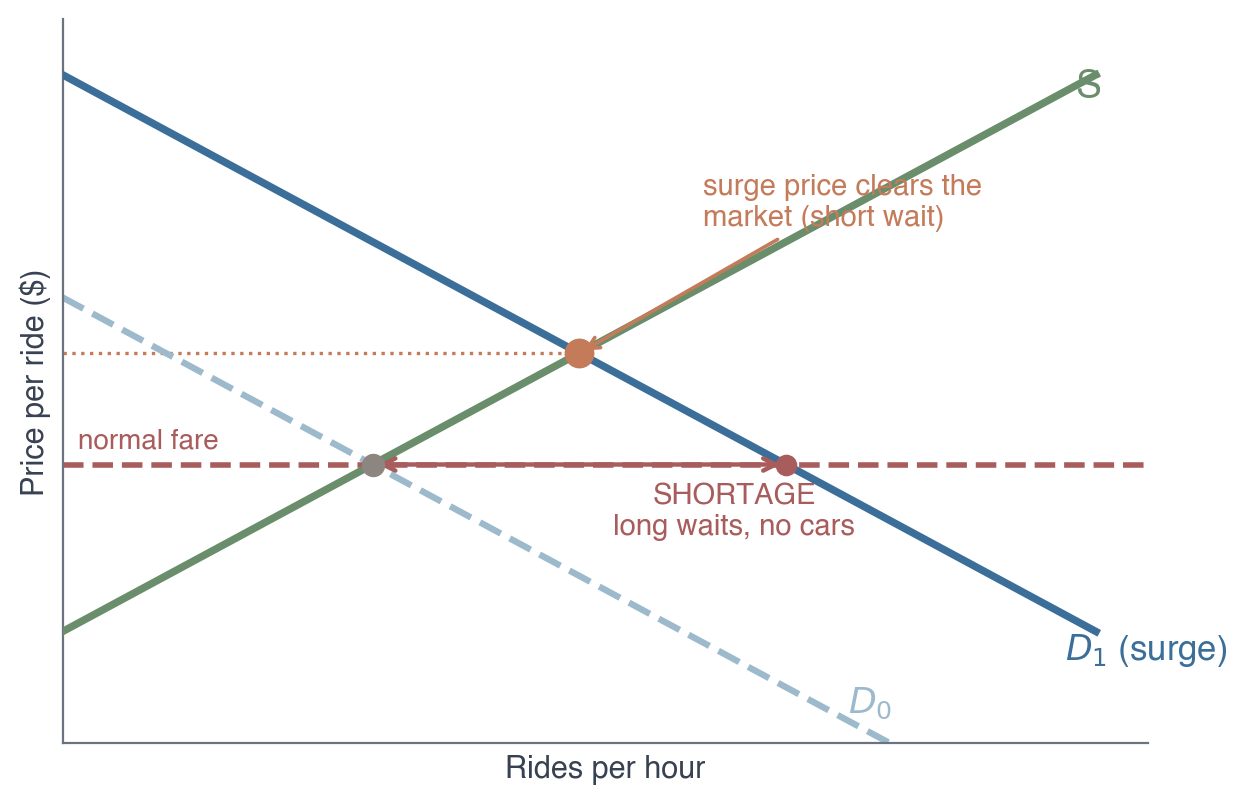
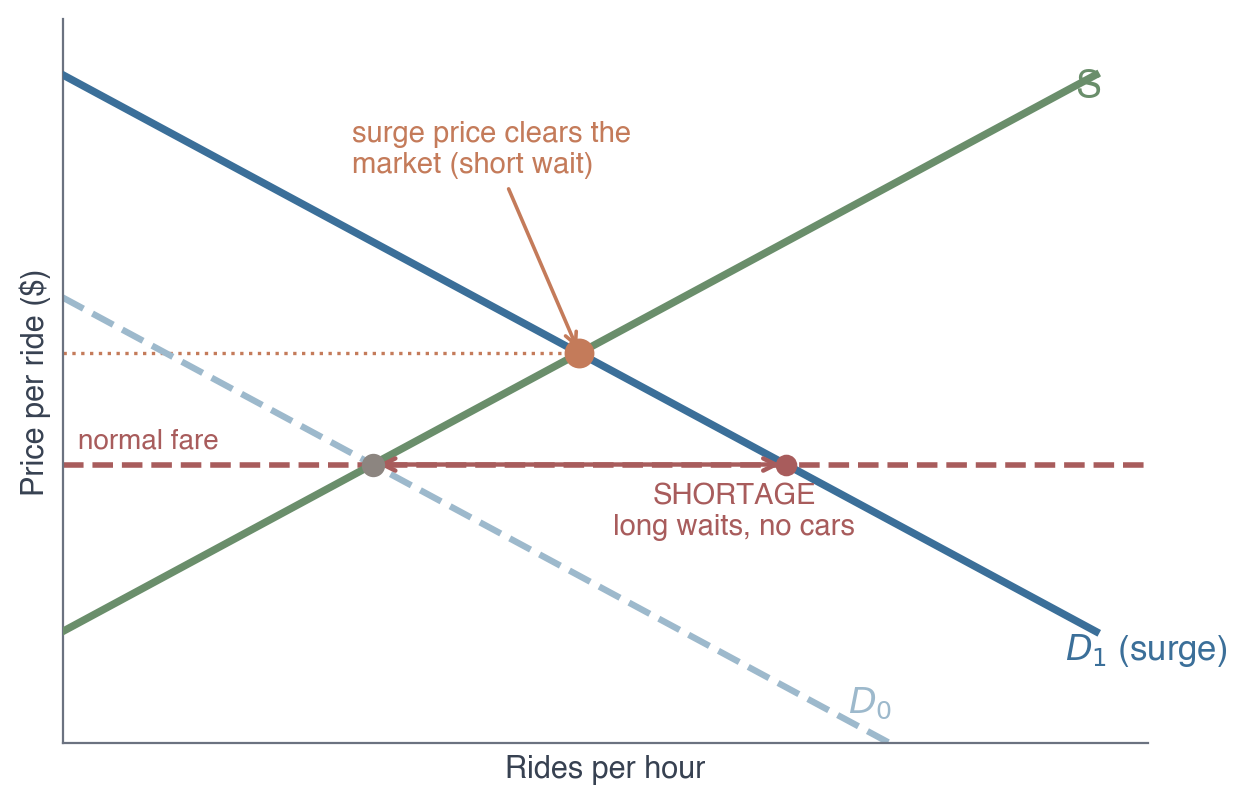
Ch 1 deck: p23 surge figure - move 'surge price clears the market' label to upper-left above the new equilibrium

diff --git a/econ2316/ch01-adventures-in-microeconomics/figures/render_surge_tradeoff.py b/econ2316/ch01-adventures-in-microeconomics/figures/render_surge_tradeoff.py
@@ -43,7 +43,7 @@ ax.text(19.4, D1(19.4) - 0.6, "$D_1$ (surge)", color=C["d1"], fontsize=12.5, fon
 ax.scatter([E0[0]], [E0[1]], s=55, color=C["muted"], zorder=6)
 ax.plot([0, E1[0]], [E1[1], E1[1]], ls=":", color=C["surge"], lw=1.2, zorder=1)
 ax.scatter([E1[0]], [E1[1]], s=95, color=C["surge"], zorder=6)
-ax.annotate("surge price clears the\nmarket (short wait)", xy=E1, xytext=(12.4, 18.6),
+ax.annotate("surge price clears the\nmarket (short wait)", xy=E1, xytext=(5.6, 20.5),
             fontsize=10.5, color=C["surge"], fontweight="bold", ha="left",
             arrowprops=dict(arrowstyle="->", color=C["surge"], lw=1.3))
 
